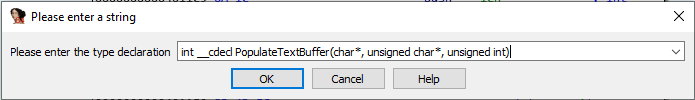
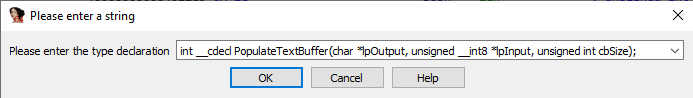
02 - Publish full report and final images

diff --git a/Flare-on/2019/02 - Overlong/Solution - 2 - Overlong.md b/Flare-on/2019/02 - Overlong/Solution - 2 - Overlong.md
@@ -22,7 +22,7 @@ The message box doesn't give us too much to go on, so let's go ahead and open th
 
 ![Overlong.exe - IDA - Entry Point](https://raw.githubusercontent.com/SecSuperN0va/CTF-Writeups/master/Flare-on/2019/02%20-%20Overlong/images/overlong_ida_start.png)
 
-In order to start from something familiar, we focus our attention on the call to `MessageBoxA` at `0x00000000004011FD`. 
+In order to start from something familiar, we focus our attention on the call to `MessageBoxA` at 0x004011FD. 
 According to the [MSDN documentation](https://docs.microsoft.com/en-us/windows/win32/api/winuser/nf-winuser-messageboxa), `MessageBoxA` takes the following parameters:
 
 ```
@@ -42,7 +42,7 @@ Let's start hunting for these parameters. Firstly, since we know that `Overlong.
 Working backwards from the call instruction, we first find `push 0`, corresponding with the `hWnd` parameter. Next we see `push edx`, which is populating 
 the `lpText` parameter. The value of `edx` in this instruction is dependent on the previous instruction: `lea edx, [ebp+Text]`, where `ebp+Text` is a pointer 
 to a memory location within the local stack frame; we'll return to this shortly. The final parameter we want to locate is `lpCaption`, which we can see being 
-pushed to the stack at `0x00000000004011EF`. We can quickly see that the address being pushed is in fact a pointer to the string "Output", as we were expecting.
+pushed to the stack at 0x004011EF. We can quickly see that the address being pushed is in fact a pointer to the string "Output", as we were expecting.
 
 Returning to `lpText`, we know that the pushed value contains an address within the local stack frame, however we haven't yet identified where the contents get 
 populated. In order to find the population code, we search from the start of the function, looking for references to the local `Text` variable.
@@ -50,7 +50,7 @@ populated. In order to find the population code, we search from the start of the
 ![Overlong.exe - IDA - Populate Text Call Site](https://raw.githubusercontent.com/SecSuperN0va/CTF-Writeups/master/Flare-on/2019/02%20-%20Overlong/images/overlong_ida_call_decode.png)
 
 Our search identifes the address of the local `Text` variable being passed to a function (`sub_401160` in the above image), alongside two other values.
-One of these values is the immediate value `0x1C`, and the other is a pointer to a global data buffer. The return value of the function (`eax`) is being
+One of these values is the immediate value 0x1C, and the other is a pointer to a global data buffer. The return value of the function (`eax`) is being
 stored in `var_4` and is then immediately retrieved and used as an offset from the address pointed to by `Text`, where a null byte is then being stored.
 This behaviour could indicate the return value represents a size or length of `Text` once the function has returned. Since we know that `Text` must contain 
 a string for the subsequent call to `MessageBoxA`, it is reasonable to be appending a null-terminator to the apparent end of a string to prevent over-reading. 
@@ -67,13 +67,114 @@ We now have a decent amount of information about the function we're interested i
 
 ![Overlong.exe - IDA - Re-Type Decode Function](https://raw.githubusercontent.com/SecSuperN0va/CTF-Writeups/master/Flare-on/2019/02%20-%20Overlong/images/overlong_ida_retype_decode_function.png)
 
+Now this has been retyped, let's take a look at the internals of this function. A quick skim over this function shows that it contains a loop, which iterates until either the loop counter exceeds 
+`cbSize`, or alternatively `var_8` is set to 0. The bulk of the loop appears to operate on the values contained in `lpInput` and `lpOutput`, with the use of function `sub_401000`. 
 
+At this point, we could either keep delving inwards and identify exactly what is happening in this function, and any functions called within. On the other hand, we could fire up a debugger and 
+dynamically instrument the input values and observe their corresponding outputs to see if that leads us in the right direction. In the hopes that the dynamic route saves us time, we'll try that first.
 
-### Detailed Analysis
-TODO
+Executing `Overlong.exe` in your favourite debugger, make note of the image load address since this may be different to the address IDA used. 
+In my case, IDA loaded the image at its desired load address (0x00400000), whereas WinDbg loaded the image at 0x00940000. We will need to 
+take this into account when trying to locate the function we're interested in.
+
+![Overlong.exe - WinDbg - Find Base Address](https://raw.githubusercontent.com/SecSuperN0va/CTF-Writeups/master/Flare-on/2019/02%20-%20Overlong/images/overlong_windbg_lm.png)
+
+No that we have an interactive debugging session in the target executable, we need to work out where our function of interest is. In my IDB, the call to `PopulateTextBuffer` is 
+located at 0x004011D7. This translates to a relative address of 0x11D7, which can be added to the load address in the debugger to find the relevant address.
+
+![Overlong.exe - WinDbg - Located Target Call Site](https://raw.githubusercontent.com/SecSuperN0va/CTF-Writeups/master/Flare-on/2019/02%20-%20Overlong/images/overlong_windbg_located.png)
+
+We will now want to add a breakpoint to this address so that we can inspect the parameters on the stack, before stepping over the call to inspect the result.
+
+![Overlong.exe - WinDbg - Set Breakpoint](https://raw.githubusercontent.com/SecSuperN0va/CTF-Writeups/master/Flare-on/2019/02%20-%20Overlong/images/overlong_windbg_set_bp.png)
+
+Releasing the debugger, it should stop at the breakpoint address. We now have the ability to be able to see the contents of the stack before the function call is executed. 
+In WinDbg, the `dd <reg|addr>` command allows us to see memory contents. The following is the output of the `dd esp` command which dumps DWORD values from the
+address pointed to by the stack pointer.
+
+```
+0:000> dd esp
+00cff818  00cff824 00942008 0000001c 00000000
+00cff828  00000000 00000000 00000000 00000000
+00cff838  00000000 00000000 00000000 00000000
+00cff848  00000000 00000000 00000000 00000000
+00cff858  00000000 00000000 00000000 00000000
+00cff868  00000000 00000000 00000000 00000000
+00cff878  00000000 00000000 00000000 00000000
+00cff888  00000000 00000000 00000000 00000000
+```
+
+In order, we can see a pointer to an address on the stack (look at the simlarity to the stack addresses on the left hand side); a pointer to an address within the confines of 
+the executable; and the `cbSize` value 0x1C. We can also see a large number of null bytes, which represents the buffer that was allocated to hold `Text` in the local stack frame. 
+If we were to dump more data from `esp`, we would see the following:
+
+```
+0:000> dd esp L25
+00cff818  00cff824 00942008 0000001c 00000000
+00cff828  00000000 00000000 00000000 00000000
+00cff838  00000000 00000000 00000000 00000000
+00cff848  00000000 00000000 00000000 00000000
+00cff858  00000000 00000000 00000000 00000000
+00cff868  00000000 00000000 00000000 00000000
+00cff878  00000000 00000000 00000000 00000000
+00cff888  00000000 00000000 00000000 00000000
+00cff898  00000000 00000000 00000000 00000000
+00cff8a8  00cff8b8
+```
+
+We can clearly see a total of 0x84 consecutive null bytes, which represents the 0x84 bytes allocated in the local stack frame at the beginning of the main function. 
+
+If we step over this function call, based on our knowledge of the behaviour of the main function, we expect this 0x84 byte buffer to be partially 
+filled with the string "I never broke the encoding: ", and `eax` will be set to the length of the string.
+
+```
+0:000> p
+eax=0000001c ebx=00aaf000 ecx=0000001c edx=00000020 esi=009411c0 edi=009411c0
+eip=009411dc esp=00cff818 ebp=00cff8a8 iopl=0         nv up ei pl zr na pe nc
+cs=0023  ss=002b  ds=002b  es=002b  fs=0053  gs=002b             efl=00000246
+Overlong+0x11dc:
+009411dc 83c40c          add     esp,0Ch
+
+0:000> db esp
+00cff818  40 f8 cf 00 48 20 94 00-1c 00 00 00 49 20 6e 65  @...H ......I ne
+00cff828  76 65 72 20 62 72 6f 6b-65 20 74 68 65 20 65 6e  ver broke the en
+00cff838  63 6f 64 69 6e 67 3a 20-00 00 00 00 00 00 00 00  coding: ........
+00cff848  00 00 00 00 00 00 00 00-00 00 00 00 00 00 00 00  ................
+00cff858  00 00 00 00 00 00 00 00-00 00 00 00 00 00 00 00  ................
+00cff868  00 00 00 00 00 00 00 00-00 00 00 00 00 00 00 00  ................
+00cff878  00 00 00 00 00 00 00 00-00 00 00 00 00 00 00 00  ................
+00cff888  00 00 00 00 00 00 00 00-00 00 00 00 00 00 00 00  ................
+
+```
+
+The above WinDbg output shows the `p` command being used to step over an instruction; the register values once the instruction has been executed; 
+the next instruction to be executed; then a byte-dump of esp showing the updated contents. As we can see, our empty buffer is no longer empty, and 
+does in fact contain the string we expected. We can also see the return value of the function is as expected (`eax=0000001c`).
+
+Now that we've confirmed the behaviour of the function, we can re-run the executable in the debugger and rather than simply observing memory, 
+we can modify it. The first thing I thought of to modify was the `cbSize` value that gets passed into the population function. It seems unusual 
+that a 0x84 byte buffer would be allocated for a string which only contains 0x1C characters. Let's see what happens if we change the value, once it's 
+been pushed to the stack, to 0x84, since this is the maximum number of bytes that could fit in the allocated memory.
+
+Resetting the debugger to our breakpoint, we can use the `ed` command to write a DWORD into memory at the address where `cbSize` has been pushed.
+
+```
+0:000> ed esp+8 0x84
+0:000> db esp L 10
+00d3fe00  0c fe d3 00 08 20 94 00-84 00 00 00 00 00 00 00  ..... ..........
+```
+
+Stepping over the function again, and dumping the byte contents of `esp` again shows additional data in our buffer. 
+Releasing the debugger results in a message box being shown with the full decoded string, containing the flag for this level.
+
+![Overlong.exe - Success](https://raw.githubusercontent.com/SecSuperN0va/CTF-Writeups/master/Flare-on/2019/02%20-%20Overlong/images/overlong_success.png)
+
+In summary, the `PopulateTextBuffer` function calls some "complicated" decoding function, iterating untill the counter exceeds `cbSize`. 
+All we've done is increase the value of `cbSize` so that the loop doesn't break out untill all of the data in the encoded buffer has been decoded, 
+rather that breaking when it hits the `cbSize` limit.
+
 ## Tools Used
-TODO
-
 Tool name|URL (if necessary)
 :---|:---
 IDA Pro | https://www.hex-rays.com/products/ida/
+WinDbg Preview | https://www.microsoft.com/en-gb/p/windbg-preview/9pgjgd53tn86?activetab=pivot:overviewtab
